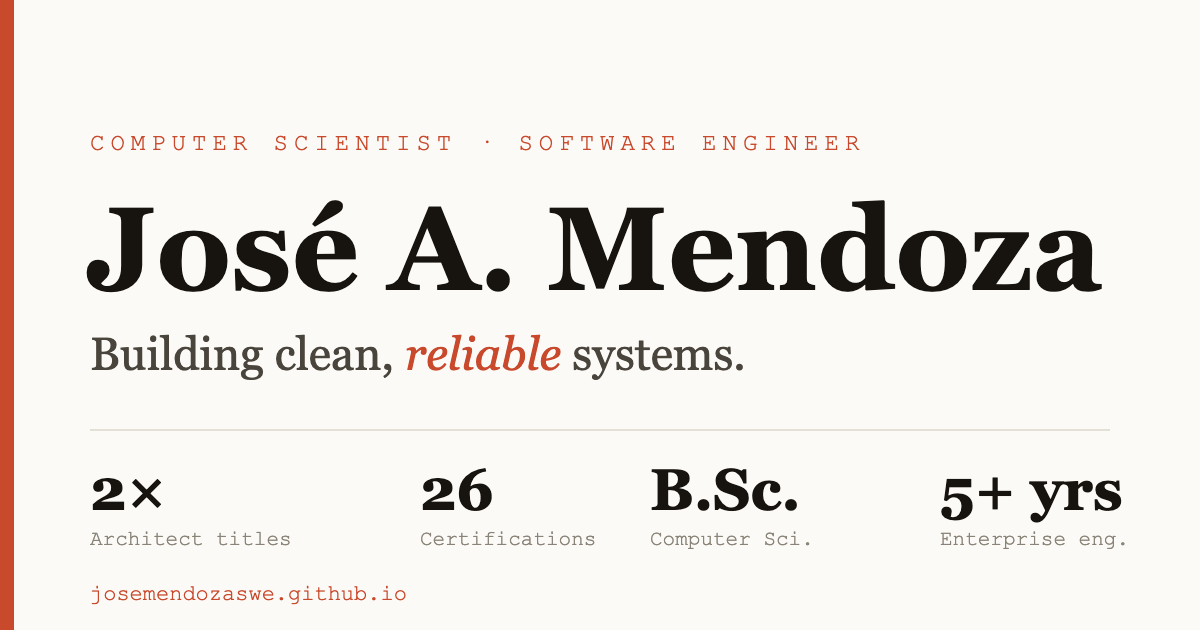
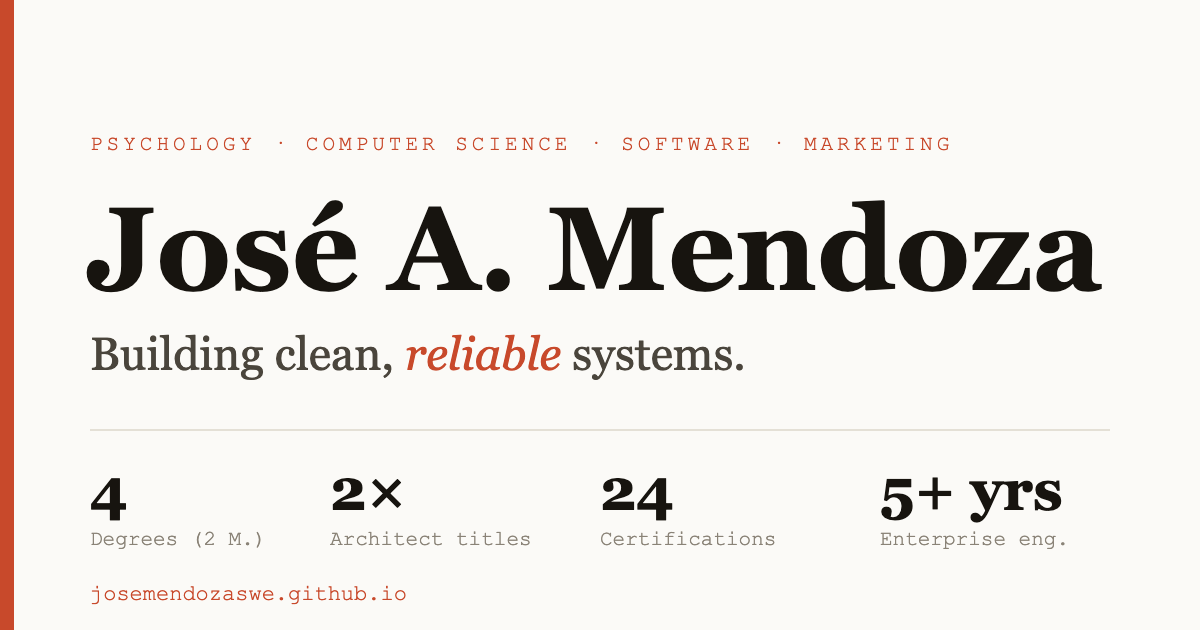
Highlight multidisciplinary profile; correct cert count to 24
- Hero eyebrow now: Psychology · Computer Science · Software · Marketing
- Lead + Education section surface 4 degrees (2 master's, in progress)
- Stats strip: 4 degrees / 2x architect / 24 certifications / 5 languages
- Certifications: 24 exams listed; System & Application Architect shown as
  capstone designations (not counted as exams), matching résumé
- Updated JSON-LD (added Univ. de La Rioja, multidisciplinary knowsAbout)
- Regenerated OG share image to match

diff --git a/index.html b/index.html
@@ -5,7 +5,7 @@
   <meta name="viewport" content="width=device-width, initial-scale=1.0" />
 
   <title>José A. Mendoza — Software Engineer &amp; Salesforce Architect</title>
-  <meta name="description" content="José A. Mendoza — Software Engineer and Salesforce Consultant. Computer scientist with 2 Salesforce Architect designations, 26 certifications, and 5+ years building and operating enterprise platforms with Python, APEX, Linux & DevOps." />
+  <meta name="description" content="José A. Mendoza — Software Engineer and Salesforce Consultant. Computer scientist with degrees in psychology, computing, IT and digital marketing; 2 Salesforce Architect designations and 24 certifications; 5+ years building and operating enterprise platforms with Python, APEX, Linux & DevOps." />
   <meta name="author" content="José A. Mendoza" />
   <meta name="theme-color" content="#FBFAF7" media="(prefers-color-scheme: light)" />
   <meta name="theme-color" content="#14120E" media="(prefers-color-scheme: dark)" />
@@ -17,7 +17,7 @@
   <meta property="og:type" content="website" />
   <meta property="og:site_name" content="José A. Mendoza" />
   <meta property="og:title" content="José A. Mendoza — Software Engineer &amp; Salesforce Architect" />
-  <meta property="og:description" content="Computer scientist & software engineer. 2 Salesforce Architect designations, 26 certifications, 5+ years engineering enterprise platforms." />
+  <meta property="og:description" content="Computer scientist & software engineer, grounded in psychology, IT and digital marketing. 2 Salesforce Architect designations, 24 certifications, 5+ years engineering enterprise platforms." />
   <meta property="og:url" content="https://josemendozaswe.github.io/" />
   <meta property="og:image" content="https://josemendozaswe.github.io/assets/og-image.png" />
   <meta property="og:image:width" content="1200" />
@@ -28,7 +28,7 @@
   <!-- Twitter / X -->
   <meta name="twitter:card" content="summary_large_image" />
   <meta name="twitter:title" content="José A. Mendoza — Software Engineer &amp; Salesforce Architect" />
-  <meta name="twitter:description" content="Computer scientist & software engineer. 2 Salesforce Architect designations, 26 certifications, 5+ years engineering enterprise platforms." />
+  <meta name="twitter:description" content="Computer scientist & software engineer, grounded in psychology, IT and digital marketing. 2 Salesforce Architect designations, 24 certifications, 5+ years engineering enterprise platforms." />
   <meta name="twitter:image" content="https://josemendozaswe.github.io/assets/og-image.png" />
 
   <!-- Icons -->
@@ -63,6 +63,7 @@
     "url": "https://josemendozaswe.github.io/",
     "image": "https://josemendozaswe.github.io/assets/profile.jpg",
     "jobTitle": "Software Engineer & Salesforce Consultant",
+    "description": "Computer scientist and software engineer with a multidisciplinary academic foundation: psychology, computer science, information technology and digital marketing. Salesforce System & Application Architect.",
     "email": "mailto:josemendozaswe@outlook.com",
     "knowsLanguage": ["es", "en", "fr", "pt", "de"],
     "address": { "@type": "PostalAddress", "addressLocality": "Mexico City", "addressCountry": "MX" },
@@ -71,9 +72,10 @@
       "https://www.linkedin.com/in/josemendozaswe/",
       "https://www.salesforce.com/trailblazer/josemendozaswe"
     ],
-    "knowsAbout": ["Software Engineering", "Computer Science", "Salesforce Architecture", "APEX", "Python", "Linux", "DevOps", "System Design", "Technical Enablement"],
+    "knowsAbout": ["Software Engineering", "Computer Science", "Psychology", "Information Technology", "Digital Marketing", "Salesforce Architecture", "APEX", "Python", "Linux", "DevOps", "System Design", "Technical Enablement"],
     "alumniOf": [
       { "@type": "CollegeOrUniversity", "name": "University of the People" },
+      { "@type": "CollegeOrUniversity", "name": "University of La Rioja" },
       { "@type": "CollegeOrUniversity", "name": "Metropolitan Autonomous University" }
     ]
   }
@@ -111,12 +113,13 @@
 <div class="hero wrap">
   <div class="hero-grid">
     <div class="hero-text">
-      <p class="eyebrow">Computer Scientist · Software Engineer</p>
+      <p class="eyebrow">Psychology · Computer Science · Software · Marketing</p>
       <h1>Building<br/>clean, <em>reliable</em><br/>systems.</h1>
       <p class="hero-lead">
         I'm <strong>José A. Mendoza</strong> — a computer scientist and software engineer
-        who turns complex problems into dependable software, from first principles to production.
-        Salesforce Architect by certification, generalist engineer by trade.
+        whose work is grounded in psychology, IT and digital marketing. Four degrees, two
+        of them master's — I turn complex problems into dependable software, from first
+        principles to production.
       </p>
       <div class="hero-actions">
         <a href="mailto:josemendozaswe@outlook.com" class="btn btn-primary">
@@ -146,9 +149,9 @@
 
   <!-- stats (all verifiable from CV) -->
   <div class="stats">
-    <div class="stat"><div class="n">B.Sc.</div><div class="l">Computer Science degree</div></div>
+    <div class="stat"><div class="n">4</div><div class="l">University degrees (2 master's)</div></div>
     <div class="stat"><div class="n">2×</div><div class="l">Salesforce Architect designations</div></div>
-    <div class="stat"><div class="n">26</div><div class="l">Salesforce certifications</div></div>
+    <div class="stat"><div class="n">24</div><div class="l">Salesforce certifications</div></div>
     <div class="stat"><div class="n">5</div><div class="l">Languages spoken</div></div>
   </div>
 </div>
@@ -348,55 +351,53 @@
   <div class="wrap">
     <div class="sec-head">
       <span class="sec-index">05 / Credentials</span>
-      <h2 class="sec-title">Certifications<small>26 Salesforce credentials — including 2 Architect designations &amp; the full architect track</small></h2>
+      <h2 class="sec-title">Certifications<small>24 Salesforce certifications — plus 2 Architect designations earned across the full architect track</small></h2>
     </div>
     <div class="sec-body reveal">
 
-      <!-- Headline architect designations -->
+      <!-- Headline architect designations (earned across the track, not standalone exams) -->
       <div class="cert-highlight">
         <div class="cert-arch">
           <span class="badge" aria-hidden="true">◆</span>
           <div>
             <div class="t">System Architect</div>
-            <div class="s">Salesforce capstone designation</div>
+            <div class="s">Capstone designation</div>
           </div>
         </div>
         <div class="cert-arch">
           <span class="badge" aria-hidden="true">◆</span>
           <div>
             <div class="t">Application Architect</div>
-            <div class="s">Salesforce capstone designation</div>
+            <div class="s">Capstone designation</div>
           </div>
         </div>
       </div>
 
       <div class="certs-grid">
-        <a class="cert" href="https://www.salesforce.com/trailblazer/josemendozaswe" target="_blank" rel="noopener"><span class="k">01</span>System Architect<span class="arr" aria-hidden="true">↗</span></a>
-        <a class="cert" href="https://www.salesforce.com/trailblazer/josemendozaswe" target="_blank" rel="noopener"><span class="k">02</span>Application Architect<span class="arr" aria-hidden="true">↗</span></a>
-        <a class="cert" href="https://www.salesforce.com/trailblazer/josemendozaswe" target="_blank" rel="noopener"><span class="k">03</span>Identity &amp; Access Management Architect<span class="arr" aria-hidden="true">↗</span></a>
-        <a class="cert" href="https://www.salesforce.com/trailblazer/josemendozaswe" target="_blank" rel="noopener"><span class="k">04</span>Integration Architect<span class="arr" aria-hidden="true">↗</span></a>
-        <a class="cert" href="https://www.salesforce.com/trailblazer/josemendozaswe" target="_blank" rel="noopener"><span class="k">05</span>Dev Lifecycle &amp; Deployment Architect<span class="arr" aria-hidden="true">↗</span></a>
-        <a class="cert" href="https://www.salesforce.com/trailblazer/josemendozaswe" target="_blank" rel="noopener"><span class="k">06</span>Data Architect<span class="arr" aria-hidden="true">↗</span></a>
-        <a class="cert" href="https://www.salesforce.com/trailblazer/josemendozaswe" target="_blank" rel="noopener"><span class="k">07</span>Sharing &amp; Visibility Architect<span class="arr" aria-hidden="true">↗</span></a>
-        <a class="cert" href="https://www.salesforce.com/trailblazer/josemendozaswe" target="_blank" rel="noopener"><span class="k">08</span>Platform Developer<span class="arr" aria-hidden="true">↗</span></a>
-        <a class="cert" href="https://www.salesforce.com/trailblazer/josemendozaswe" target="_blank" rel="noopener"><span class="k">09</span>Platform App Builder<span class="arr" aria-hidden="true">↗</span></a>
-        <a class="cert" href="https://www.salesforce.com/trailblazer/josemendozaswe" target="_blank" rel="noopener"><span class="k">10</span>Platform Administrator II<span class="arr" aria-hidden="true">↗</span></a>
-        <a class="cert" href="https://www.salesforce.com/trailblazer/josemendozaswe" target="_blank" rel="noopener"><span class="k">11</span>Platform Administrator<span class="arr" aria-hidden="true">↗</span></a>
-        <a class="cert" href="https://www.salesforce.com/trailblazer/josemendozaswe" target="_blank" rel="noopener"><span class="k">12</span>Business Analyst<span class="arr" aria-hidden="true">↗</span></a>
-        <a class="cert" href="https://www.salesforce.com/trailblazer/josemendozaswe" target="_blank" rel="noopener"><span class="k">13</span>Platform UX Designer<span class="arr" aria-hidden="true">↗</span></a>
-        <a class="cert" href="https://www.salesforce.com/trailblazer/josemendozaswe" target="_blank" rel="noopener"><span class="k">14</span>Data 360 Consultant<span class="arr" aria-hidden="true">↗</span></a>
-        <a class="cert" href="https://www.salesforce.com/trailblazer/josemendozaswe" target="_blank" rel="noopener"><span class="k">15</span>Agentforce Specialist<span class="arr" aria-hidden="true">↗</span></a>
-        <a class="cert" href="https://www.salesforce.com/trailblazer/josemendozaswe" target="_blank" rel="noopener"><span class="k">16</span>Agentforce Sales Consultant<span class="arr" aria-hidden="true">↗</span></a>
-        <a class="cert" href="https://www.salesforce.com/trailblazer/josemendozaswe" target="_blank" rel="noopener"><span class="k">17</span>Agentforce Service Consultant<span class="arr" aria-hidden="true">↗</span></a>
-        <a class="cert" href="https://www.salesforce.com/trailblazer/josemendozaswe" target="_blank" rel="noopener"><span class="k">18</span>Marketing Cloud Engagement Developer<span class="arr" aria-hidden="true">↗</span></a>
-        <a class="cert" href="https://www.salesforce.com/trailblazer/josemendozaswe" target="_blank" rel="noopener"><span class="k">19</span>Marketing Cloud Engagement Consultant<span class="arr" aria-hidden="true">↗</span></a>
-        <a class="cert" href="https://www.salesforce.com/trailblazer/josemendozaswe" target="_blank" rel="noopener"><span class="k">20</span>Marketing Cloud Engagement Administrator<span class="arr" aria-hidden="true">↗</span></a>
-        <a class="cert" href="https://www.salesforce.com/trailblazer/josemendozaswe" target="_blank" rel="noopener"><span class="k">21</span>Marketing Cloud Engagement Specialist<span class="arr" aria-hidden="true">↗</span></a>
-        <a class="cert" href="https://www.salesforce.com/trailblazer/josemendozaswe" target="_blank" rel="noopener"><span class="k">22</span>MuleSoft Integration Foundations<span class="arr" aria-hidden="true">↗</span></a>
-        <a class="cert" href="https://www.salesforce.com/trailblazer/josemendozaswe" target="_blank" rel="noopener"><span class="k">23</span>Marketing Cloud Engagement Foundations<span class="arr" aria-hidden="true">↗</span></a>
-        <a class="cert" href="https://www.salesforce.com/trailblazer/josemendozaswe" target="_blank" rel="noopener"><span class="k">24</span>Platform Foundations<span class="arr" aria-hidden="true">↗</span></a>
-        <a class="cert" href="https://www.salesforce.com/trailblazer/josemendozaswe" target="_blank" rel="noopener"><span class="k">25</span>Agentforce Sales Foundations<span class="arr" aria-hidden="true">↗</span></a>
-        <a class="cert" href="https://www.salesforce.com/trailblazer/josemendozaswe" target="_blank" rel="noopener"><span class="k">26</span>AI Associate<span class="arr" aria-hidden="true">↗</span></a>
+        <a class="cert" href="https://www.salesforce.com/trailblazer/josemendozaswe" target="_blank" rel="noopener"><span class="k">01</span>Identity &amp; Access Management Architect<span class="arr" aria-hidden="true">↗</span></a>
+        <a class="cert" href="https://www.salesforce.com/trailblazer/josemendozaswe" target="_blank" rel="noopener"><span class="k">02</span>Integration Architect<span class="arr" aria-hidden="true">↗</span></a>
+        <a class="cert" href="https://www.salesforce.com/trailblazer/josemendozaswe" target="_blank" rel="noopener"><span class="k">03</span>Dev Lifecycle &amp; Deployment Architect<span class="arr" aria-hidden="true">↗</span></a>
+        <a class="cert" href="https://www.salesforce.com/trailblazer/josemendozaswe" target="_blank" rel="noopener"><span class="k">04</span>Data Architect<span class="arr" aria-hidden="true">↗</span></a>
+        <a class="cert" href="https://www.salesforce.com/trailblazer/josemendozaswe" target="_blank" rel="noopener"><span class="k">05</span>Sharing &amp; Visibility Architect<span class="arr" aria-hidden="true">↗</span></a>
+        <a class="cert" href="https://www.salesforce.com/trailblazer/josemendozaswe" target="_blank" rel="noopener"><span class="k">06</span>Platform Developer<span class="arr" aria-hidden="true">↗</span></a>
+        <a class="cert" href="https://www.salesforce.com/trailblazer/josemendozaswe" target="_blank" rel="noopener"><span class="k">07</span>Platform App Builder<span class="arr" aria-hidden="true">↗</span></a>
+        <a class="cert" href="https://www.salesforce.com/trailblazer/josemendozaswe" target="_blank" rel="noopener"><span class="k">08</span>Platform Administrator II<span class="arr" aria-hidden="true">↗</span></a>
+        <a class="cert" href="https://www.salesforce.com/trailblazer/josemendozaswe" target="_blank" rel="noopener"><span class="k">09</span>Platform Administrator<span class="arr" aria-hidden="true">↗</span></a>
+        <a class="cert" href="https://www.salesforce.com/trailblazer/josemendozaswe" target="_blank" rel="noopener"><span class="k">10</span>Business Analyst<span class="arr" aria-hidden="true">↗</span></a>
+        <a class="cert" href="https://www.salesforce.com/trailblazer/josemendozaswe" target="_blank" rel="noopener"><span class="k">11</span>Platform UX Designer<span class="arr" aria-hidden="true">↗</span></a>
+        <a class="cert" href="https://www.salesforce.com/trailblazer/josemendozaswe" target="_blank" rel="noopener"><span class="k">12</span>Data 360 Consultant<span class="arr" aria-hidden="true">↗</span></a>
+        <a class="cert" href="https://www.salesforce.com/trailblazer/josemendozaswe" target="_blank" rel="noopener"><span class="k">13</span>Agentforce Specialist<span class="arr" aria-hidden="true">↗</span></a>
+        <a class="cert" href="https://www.salesforce.com/trailblazer/josemendozaswe" target="_blank" rel="noopener"><span class="k">14</span>Agentforce Sales Consultant<span class="arr" aria-hidden="true">↗</span></a>
+        <a class="cert" href="https://www.salesforce.com/trailblazer/josemendozaswe" target="_blank" rel="noopener"><span class="k">15</span>Agentforce Service Consultant<span class="arr" aria-hidden="true">↗</span></a>
+        <a class="cert" href="https://www.salesforce.com/trailblazer/josemendozaswe" target="_blank" rel="noopener"><span class="k">16</span>Marketing Cloud Engagement Developer<span class="arr" aria-hidden="true">↗</span></a>
+        <a class="cert" href="https://www.salesforce.com/trailblazer/josemendozaswe" target="_blank" rel="noopener"><span class="k">17</span>Marketing Cloud Engagement Consultant<span class="arr" aria-hidden="true">↗</span></a>
+        <a class="cert" href="https://www.salesforce.com/trailblazer/josemendozaswe" target="_blank" rel="noopener"><span class="k">18</span>Marketing Cloud Engagement Administrator<span class="arr" aria-hidden="true">↗</span></a>
+        <a class="cert" href="https://www.salesforce.com/trailblazer/josemendozaswe" target="_blank" rel="noopener"><span class="k">19</span>Marketing Cloud Engagement Specialist<span class="arr" aria-hidden="true">↗</span></a>
+        <a class="cert" href="https://www.salesforce.com/trailblazer/josemendozaswe" target="_blank" rel="noopener"><span class="k">20</span>MuleSoft Integration Foundations<span class="arr" aria-hidden="true">↗</span></a>
+        <a class="cert" href="https://www.salesforce.com/trailblazer/josemendozaswe" target="_blank" rel="noopener"><span class="k">21</span>Marketing Cloud Engagement Foundations<span class="arr" aria-hidden="true">↗</span></a>
+        <a class="cert" href="https://www.salesforce.com/trailblazer/josemendozaswe" target="_blank" rel="noopener"><span class="k">22</span>Platform Foundations<span class="arr" aria-hidden="true">↗</span></a>
+        <a class="cert" href="https://www.salesforce.com/trailblazer/josemendozaswe" target="_blank" rel="noopener"><span class="k">23</span>Agentforce Sales Foundations<span class="arr" aria-hidden="true">↗</span></a>
+        <a class="cert" href="https://www.salesforce.com/trailblazer/josemendozaswe" target="_blank" rel="noopener"><span class="k">24</span>AI Associate<span class="arr" aria-hidden="true">↗</span></a>
       </div>
     </div>
   </div>
@@ -407,7 +408,7 @@
   <div class="wrap">
     <div class="sec-head">
       <span class="sec-index">06 / Education</span>
-      <h2 class="sec-title">Study</h2>
+      <h2 class="sec-title">A multidisciplinary foundation<small>Four university degrees — psychology, computer science, IT and digital marketing (two master's in progress)</small></h2>
     </div>
     <div class="sec-body reveal">
       <div class="edu">
@@ -419,12 +420,12 @@
         <div class="edu-card">
           <div class="deg">M.Sc. Information Technology</div>
           <div class="sch">University of the People</div>
-          <div class="yr">Jun 2026 — Jun 2027</div>
+          <div class="yr">Jun 2026 — Jun 2027 <span class="status">In progress</span></div>
         </div>
         <div class="edu-card">
           <div class="deg">M.A. Digital Marketing</div>
           <div class="sch">University of La Rioja (UNIR)</div>
-          <div class="yr">Oct 2025 — Apr 2027</div>
+          <div class="yr">Oct 2025 — Apr 2027 <span class="status">In progress</span></div>
         </div>
         <div class="edu-card">
           <div class="deg">B.A. Psychology</div>

diff --git a/assets/css/site.css b/assets/css/site.css
@@ -372,7 +372,14 @@ section { padding: 5.5rem 0; border-top: 1px solid var(--line); }
 }
 .edu-card .deg { font-family: var(--font-serif); font-weight: 500; font-size: 1.1rem; margin-bottom: 0.35rem; padding-right: 1.5rem; }
 .edu-card .sch { font-size: 0.86rem; color: var(--ink-soft); }
-.edu-card .yr { font-family: var(--font-mono); font-size: 0.72rem; color: var(--muted); margin-top: 0.6rem; }
+.edu-card .yr { font-family: var(--font-mono); font-size: 0.72rem; color: var(--muted); margin-top: 0.6rem; display: flex; align-items: center; gap: 0.6rem; flex-wrap: wrap; }
+.edu-card .status {
+  font-family: var(--font-mono); font-size: 0.62rem; letter-spacing: 0.06em;
+  text-transform: uppercase; color: var(--accent);
+  border: 1px solid color-mix(in srgb, var(--accent) 40%, transparent);
+  background: color-mix(in srgb, var(--accent) 8%, transparent);
+  padding: 0.15rem 0.5rem; border-radius: 20px; white-space: nowrap;
+}
 
 .langs { display: flex; gap: 2.5rem; flex-wrap: wrap; margin-top: 2.5rem; padding-top: 2rem; border-top: 1px solid var(--line-soft); }
 .lang .n { font-family: var(--font-serif); font-size: 1.15rem; font-weight: 500; }
